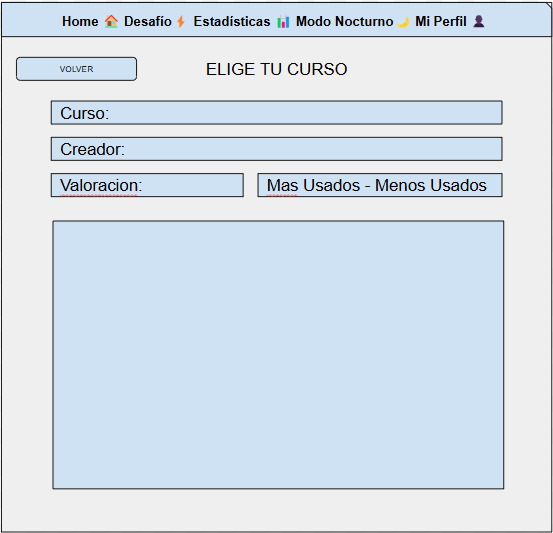
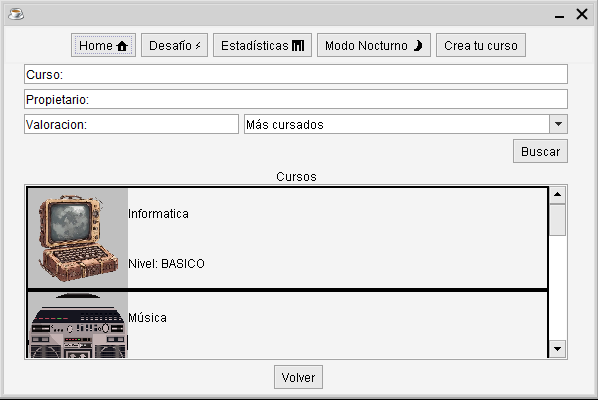
He añadido un par de imagenes de ventanas

diff --git a/duolingoBaratero/src/main/java/umu/pds/duolingoBaratero/controllers/ControladorCurso.java b/duolingoBaratero/src/main/java/umu/pds/duolingoBaratero/controllers/ControladorCurso.java
@@ -47,16 +47,13 @@ public enum ControladorCurso {
 	private Serializer serializer;
 
 	private ControladorCurso() {
-		initialize();
-		pruebas();
-	}
-	
-	private void initialize() {
 		this.sevicioImagenes = new ImageService();
 		this.reproductor = AudioService.INSTANCE;
 		this.serializer = SerializerFactory.INSTANCE.getSerializer(cursoActual);
+		pruebas();
 	}
 	
+
 	public boolean isCursoNuevo(CursoEnProgreso curso) {
 		return curso.isNuevo();
 	}

diff --git a/duolingoBaratero/src/main/java/umu/pds/duolingoBaratero/services/serializers/SerializerFactory.java b/duolingoBaratero/src/main/java/umu/pds/duolingoBaratero/services/serializers/SerializerFactory.java
@@ -15,11 +15,12 @@ public enum SerializerFactory {
 	);
 	
 	public Serializer getSerializer(CursoPlantilla cursoPlantilla) {
-		return serializers.stream()
-			.map(Supplier::get)
-			.filter(serializer -> serializer.isBetter(cursoPlantilla))
-			.findFirst()
-			.get();
+		return null;
+//		return serializers.stream()
+//			.map(Supplier::get)
+//			.filter(serializer -> serializer.isBetter(cursoPlantilla))
+//			.findFirst()
+//			.get();
 	}
 	
 }
